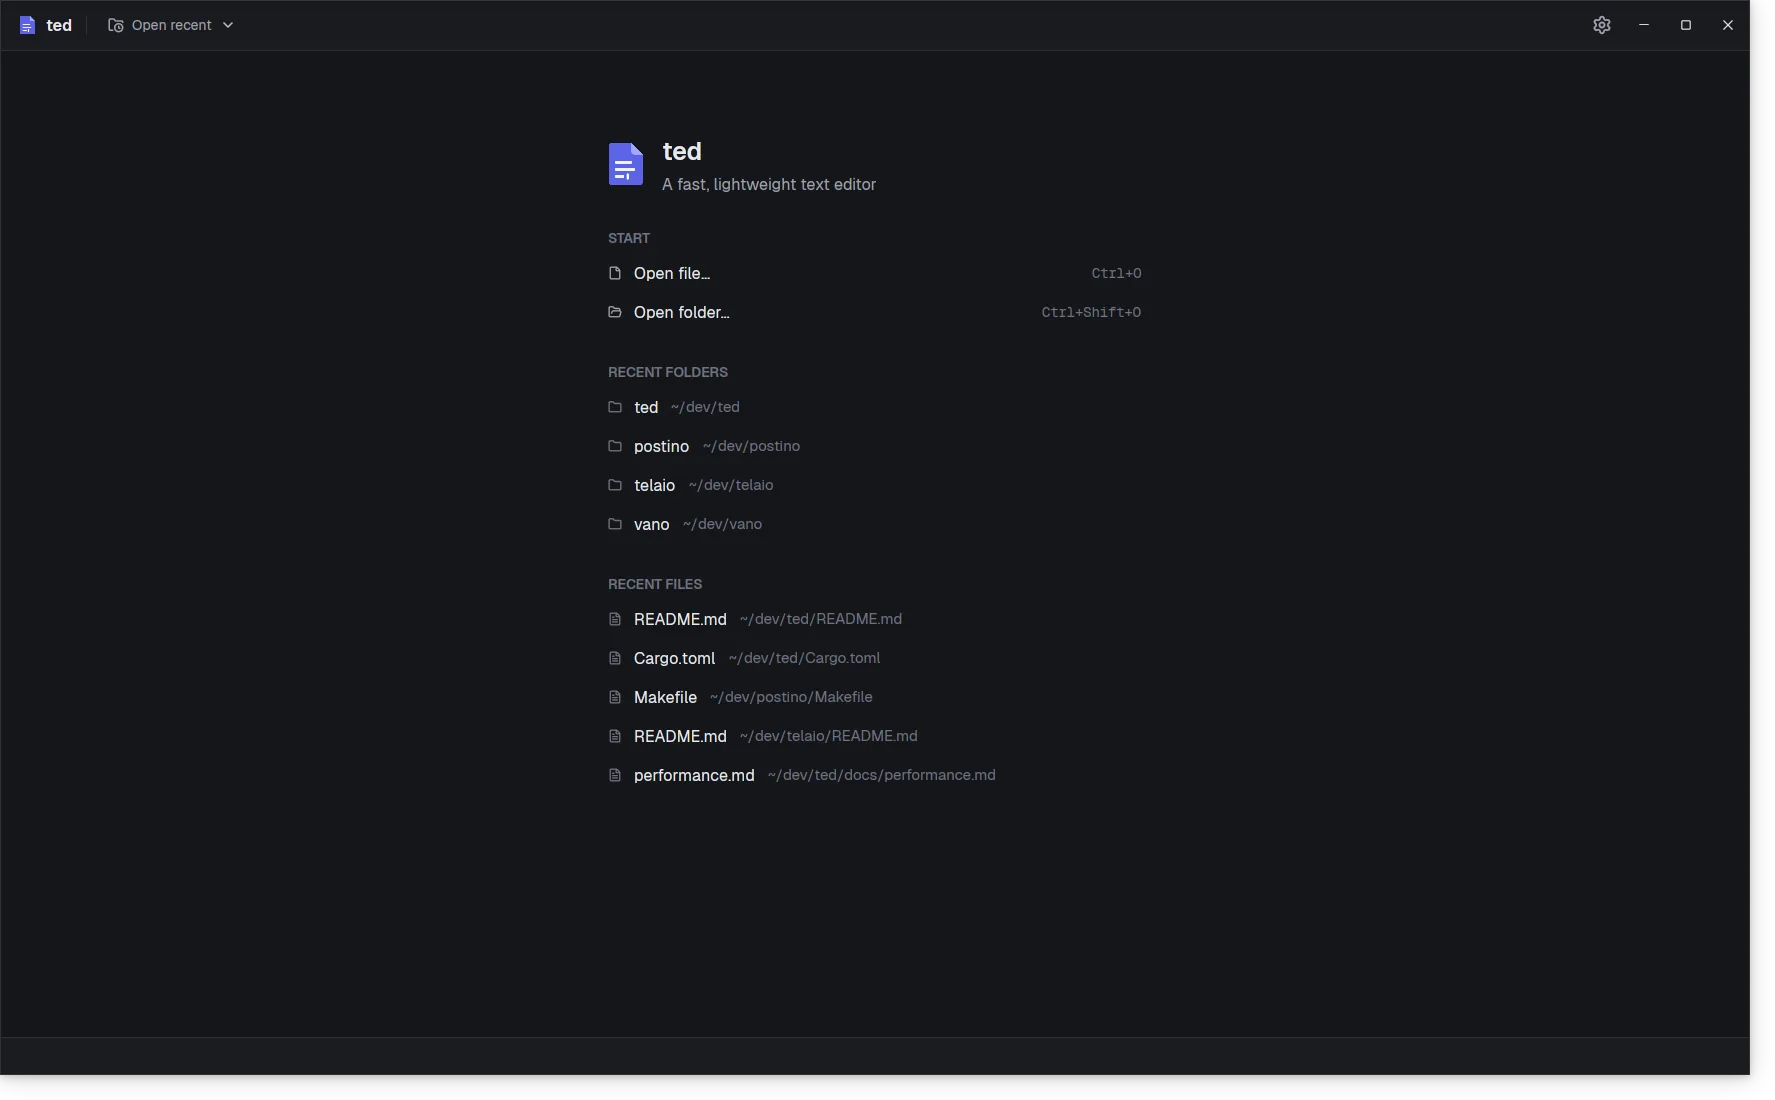
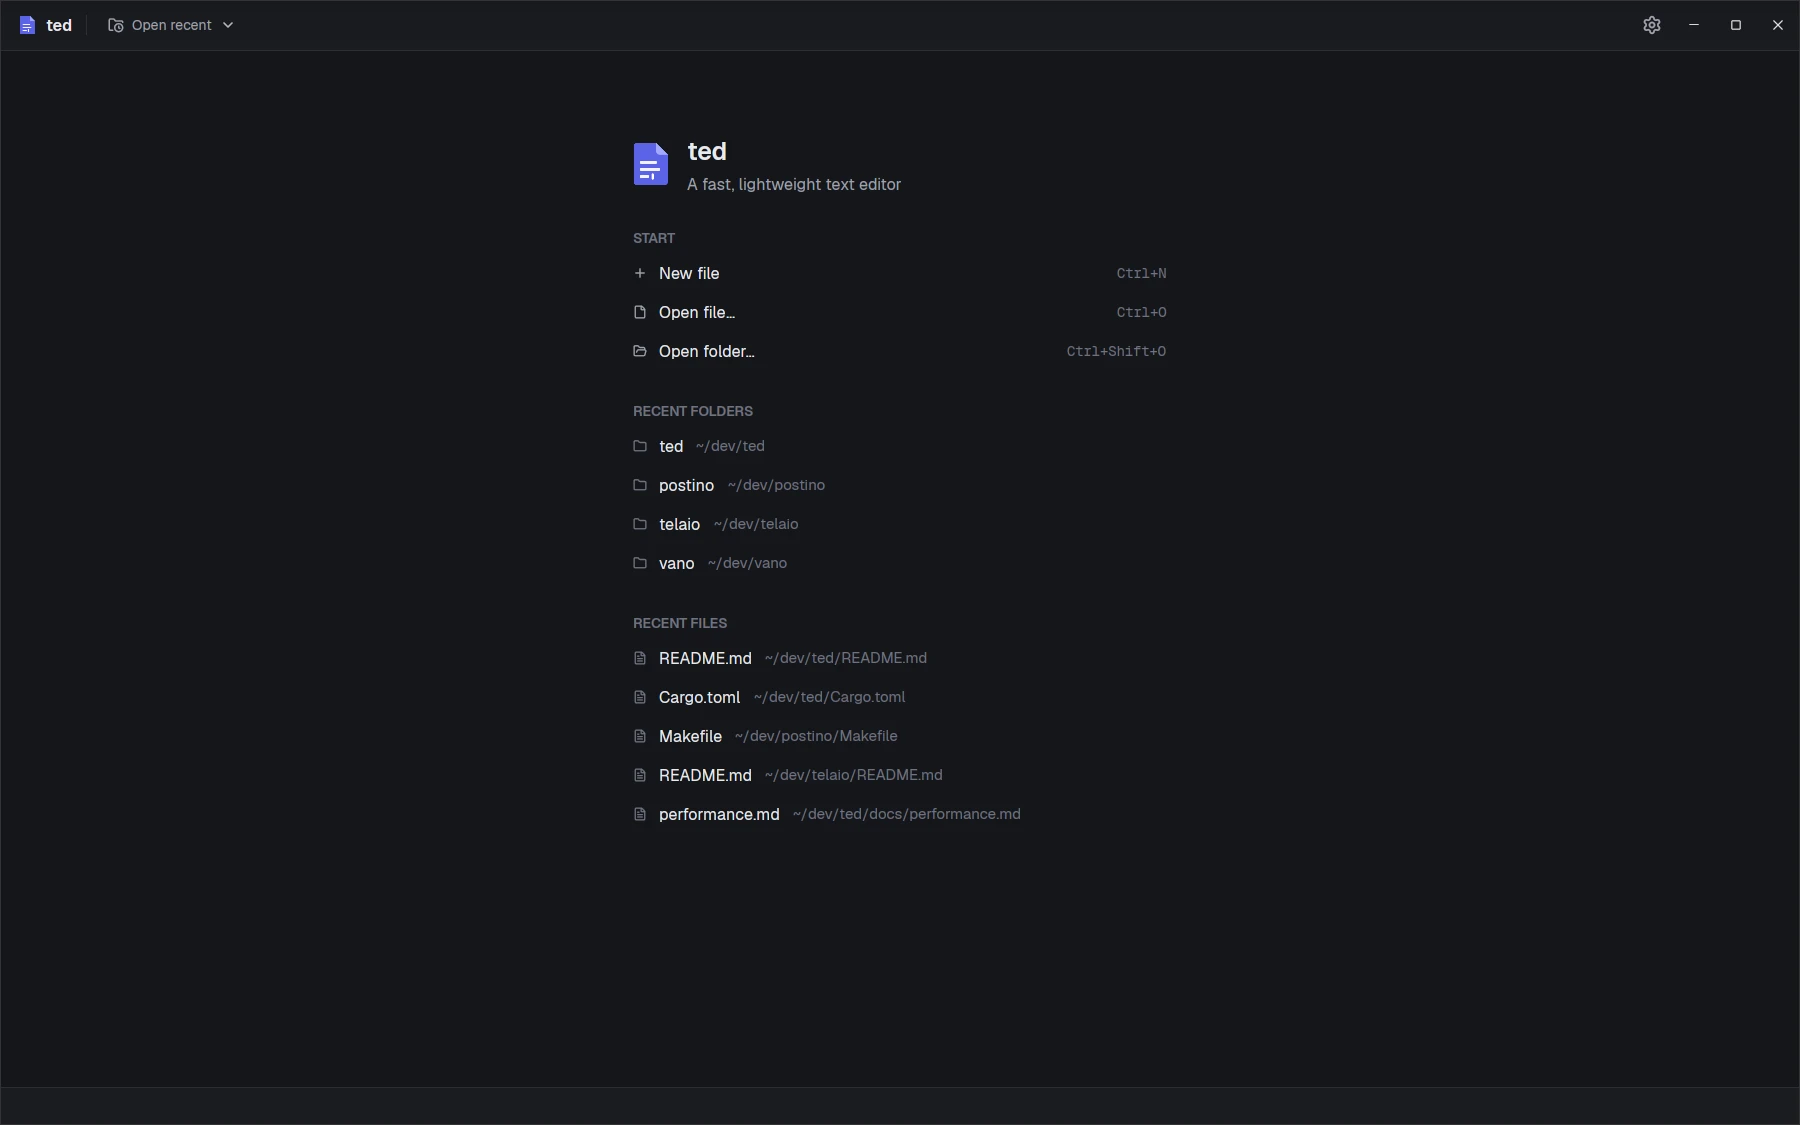
Welcome screen: scroll and a New file action
The empty state scrolls when the recent folders and files do not fit:
its column was stretched to the height of the scrolled area, so the
list overflowed the column and was cut instead of scrolling.

A New file action (Ctrl+N) leads the Start section, before Open file
and Open folder. It creates an untitled document shown alone, in file
mode. The welcome screenshots of the docs show it.

Closes #28

diff --git a/site/docs-src/pages/quick-start.html b/site/docs-src/pages/quick-start.html
@@ -5,10 +5,10 @@ description: Open a file or a folder, edit, find, save and change the settings, 
 <p class="lead">ted works on files and folders as they are on your disk: there is no project to create. This page goes through a first session.</p>
 
 <h2>Open something</h2>
-<p>With nothing open, ted shows its empty state: <strong>Open file…</strong>, <strong>Open folder…</strong>, and the folders and files you opened last.</p>
+<p>With nothing open, ted shows its empty state: <strong>New file</strong>, <strong>Open file…</strong>, <strong>Open folder…</strong>, and the folders and files you opened last. It scrolls when the list does not fit in the window. <strong>New file</strong> creates an untitled document that fills the window; see <a href="saving.html#new-documents">New documents</a>.</p>
 <div class="shot">
-    <img class="light" src="../img/welcome-light.webp" width="1800" height="1125" loading="lazy" alt="The empty state: Open file and Open folder, then the recent folders and files.">
-    <img class="dark" src="../img/welcome-dark.webp" width="1800" height="1125" loading="lazy" alt="The empty state: Open file and Open folder, then the recent folders and files.">
+    <img class="light" src="../img/welcome-light.webp" width="1800" height="1125" loading="lazy" alt="The empty state: New file, Open file and Open folder, then the recent folders and files.">
+    <img class="dark" src="../img/welcome-dark.webp" width="1800" height="1125" loading="lazy" alt="The empty state: New file, Open file and Open folder, then the recent folders and files.">
 </div>
 <ul>
     <li><strong>A file</strong> (<kbd>Ctrl</kbd> <kbd>O</kbd>) opens on its own: the editor fills the window.</li>

diff --git a/crates/ted-app/src/views/welcome.rs b/crates/ted-app/src/views/welcome.rs
@@ -1,5 +1,5 @@
 //! The empty state: what the window shows with nothing open. A centered column with the logo,
-//! the two Open actions and the recent folders and files. Its rows are the design's recents menu
+//! the New file and Open actions and the recent folders and files, scrolled when it does not fit. Its rows are the design's recents menu
 //! rows (30 px, icon 14, name, path in 12 px `fg_subtle`), shown without the menu's card.
 
 use std::path::{Path, PathBuf};
@@ -34,11 +34,19 @@ impl AppView {
             .child(
                 section(t!("welcome.start"))
                     .child(self.action_row(
+                        "new-file",
+                        IconName::Plus,
+                        t!("open.new_file"),
+                        hints::NEW_FILE,
+                        |this, window, cx| this.new_document(window, cx),
+                        cx,
+                    ))
+                    .child(self.action_row(
                         "open-file",
                         IconName::File,
                         t!("welcome.open_file"),
                         hints::OPEN_FILE,
-                        false,
+                        |this, window, cx| this.prompt_open(false, window, cx),
                         cx,
                     ))
                     .child(self.action_row(
@@ -46,7 +54,7 @@ impl AppView {
                         IconName::FolderOpen,
                         t!("welcome.open_folder"),
                         hints::OPEN_FOLDER,
-                        true,
+                        |this, window, cx| this.prompt_open(true, window, cx),
                         cx,
                     )),
             );
@@ -88,6 +96,9 @@ impl AppView {
             .overflow_y_scroll()
             .flex()
             .justify_center()
+            // The column keeps its own height, so it overflows (and scrolls) instead of being
+            // stretched to the window and cut.
+            .items_start()
             .px_4()
             .py(px(64.0))
             .child(column)
@@ -115,14 +126,14 @@ impl AppView {
             .into_any_element()
     }
 
-    /// A row that opens a dialog: icon, label and the shortcut hint at the right.
+    /// An action: icon, label and the shortcut hint at the right.
     fn action_row(
         &self,
         id: &'static str,
         icon: IconName,
         label: impl Into<SharedString>,
         hint: &'static str,
-        folder: bool,
+        action: impl Fn(&mut Self, &mut Window, &mut Context<Self>) + 'static,
         cx: &mut Context<Self>,
     ) -> Stateful<Div> {
         let palette = cx.palette();
@@ -136,7 +147,7 @@ impl AppView {
                     .text_color(palette.fg_subtle)
                     .child(hint),
             )
-            .on_click(cx.listener(move |this, _, window, cx| this.prompt_open(folder, window, cx)))
+            .on_click(cx.listener(move |this, _, window, cx| action(this, window, cx)))
     }
 
     /// A recent folder or file: icon, name and the shortened path, which opens it when clicked.

diff --git a/crates/ted-app/src/actions.rs b/crates/ted-app/src/actions.rs
@@ -34,6 +34,7 @@ actions!(
 /// The shortcut labels shown next to the actions, as typed on this platform.
 #[cfg(target_os = "macos")]
 pub mod hints {
+    pub const NEW_FILE: &str = "\u{2318}N";
     pub const OPEN_FILE: &str = "\u{2318}O";
     pub const OPEN_FOLDER: &str = "\u{21e7}\u{2318}O";
 }
@@ -41,6 +42,7 @@ pub mod hints {
 /// The shortcut labels shown next to the actions, as typed on this platform.
 #[cfg(not(target_os = "macos"))]
 pub mod hints {
+    pub const NEW_FILE: &str = "Ctrl+N";
     pub const OPEN_FILE: &str = "Ctrl+O";
     pub const OPEN_FOLDER: &str = "Ctrl+Shift+O";
 }
